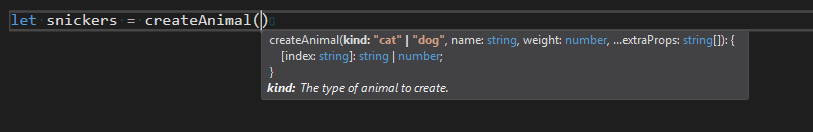
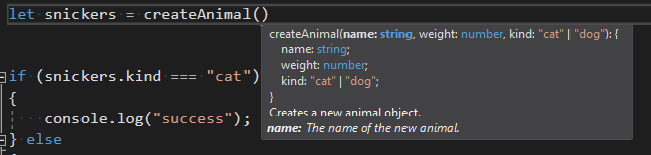
Respond to comments

diff --git a/articles/types/jsdoc.md b/articles/types/jsdoc.md
@@ -1,19 +1,19 @@
 # JsDoc support
 
 Programs written in JavaScript and TypeScript can be annotated with (JsDoc comments)[http://usejsdoc.org/index.html]
-to give type information and quick-info descriptions of identifiers.
+to give type information and quickinfo descriptions of identifiers.
 
-In the following example, the text between the opening `/**` and closing `/*` are considered JsDoc comments.
+In the following example, the text between the opening `/**` and closing `*/` are considered JsDoc comments.
 
 ```js
 /**
- * @param {"cat" | "dog"} kind  The type of animal to create.
- * @param name {string}
- * @param {number} weight The weight, in pounds, of animal.
- * @param {...string} extraProps Any extra properties to tack on the animal.
- * @return {{[index: string]: string | number}} Any extra properties to tack on the animal.
+ * Creates a new animal object.
+ * @param {string} name The name of the new animal.
+ * @param {number} weight
+ * @param {"cat" | "dog"} kind
+ * @return {{name: string, weight: number, kind: "cat" | "dog"}} A brand new animal!
  */
-function createAnimal(kind, name, weight, ...extraProps)
+function createAnimal(name, weight, kind)
 {
     // ...
 }
@@ -21,15 +21,17 @@ function createAnimal(kind, name, weight, ...extraProps)
 
 As you can see, we can prefix sections in JsDoc with terms such as `@param` and `@return` to describe the behavior of the `createAnimal` function.
 In JsDoc, terms beginning with `@` have special meanings, and are called *tags*. The text between curly braces are descriptions of *types*,
-which can be used by the developer to check that they are using a variable correctly -- they can go either before or after the construct's *name*.
+which can be used by the developer to check that they are using a variable correctly &mdash;  they should precede the *name* of the construct being described, if applicable.
 In the example above, knowing that `weight` is a number can inform the developer to avoid calling `weight.length`.
-Moreover, if the result of `createAnimal` is assigned to a variable, the return type of createAnimal propogates to the assigned value.
+Moreover, if the result of `createAnimal` is assigned to a variable, the return type of createAnimal propagates to the assigned value.
 
-Finally, the text after the parameter names are *descriptions*, which show up as part of *quickinfo* anytime you hover over a construct that is documented
+The type annotations supported include both jsdoc and TypeScript syntax. For example, `kind` is described as a union of string-literals, and the return type is an object containing each of the parameters as properties. We give details in (section link?) below.
+
+Finally, the text spans before the first tag and after parameter names are *descriptions*, which shows up as part of quickinfo anytime you hover over a construct that is documented
 
 <img src="../../images/jsdoc-quickinfo.png" width="1000px"/>
 
-and while filling in the paramters in a function call.
+and while filling in the paramaters in a function call.
 
 <img src="../../images/jsdoc-param.png" width="1000px"/>
 
@@ -42,7 +44,7 @@ Visual Studio offers a rich editing experience inside JsDoc comments. The editor
 Any tag may be used for documentation, but Visual Studio treats some tags specially to improve the editor's ability to catch errors and help with refactoring.
 The following tags are handled specially. Each tag is followed by a description and example.
 
-* `@param` -- describes a parameter to a callable construct (eg: a function). Type annotations and descriptions are optional.
+* `@param` &mdash; describes a parameter to a function. Type annotations and descriptions are optional.
 
 ```ts
 /**
@@ -72,7 +74,7 @@ function repeatString(string, times) {
 }
 ```
 
-* `@return` -- describes the return value of a callable construct (eg: a function). Type annotations and descriptions are optional.
+* `@return` &mdash; describes the return value of a function. Type annotations and descriptions are optional.
 
 ```ts
 /**
@@ -87,7 +89,7 @@ function endsWith(haystack, needle) {
 }
 ```
 
-* `@class` -- tells Visual Studio to treat the next construct as a constructor. (Only available in JavaScript files)
+* `@class` &mdash; tells Visual Studio to treat the next function as a constructor. (Only available in JavaScript files)
 
 ```ts
 var Cell = /** @class */ (function () {
@@ -97,7 +99,14 @@ var Cell = /** @class */ (function () {
 }());
 ```
 
-* `@augments` and `@extends` -- in JsDoc for class-like declarations, specifies which class the upcoming construct extends. Note that `@augments` and `@extends` are synonyms.
+* `@augments` and `@extends` &mdash; if the next construct is a class declaration, specifies which class the upcoming declaration extends. Note that `@augments` and `@extends` are synonyms.
+Like the `@class` tag above, these tags are useful with pre-ES6 javacsript, as in the following example:
+
+```ts
+
+```
+
+The following advanced example shows how to use `@augments` to instantiate a type parameter.
 
 ```ts
 // @Filename: declarations.d.ts
@@ -117,7 +126,7 @@ var Cell = /** @class */ (function () {
  }
 ```
 
-* `@template` -- used to specify type parameters for the following construct (c.f. polymorphism in JavaScript)
+* `@template` &mdash; used to specify type parameters for the following function (c.f. generic programming)
 
 ```ts
 /**
@@ -130,14 +139,14 @@ function f(a) {
 let n = f(1)();
 ```
 
-* `@type` -- declares the type of the next construct:
+* `@type` &mdash; declares the type of the next construct:
 
 ```ts
 /** @type {{key: "value"}} */
 var x = JSON.parse(JSON.stringify({key: "value"}));
 ```
 
-* `@typedef` -- Typedef tags can be used to declare types referenced in other JsDoc comments.
+* `@typedef` &mdash; Typedef tags can be used to declare types referenced in other JsDoc comments.
 If a type is specified inline (in the same style as `@param`), that describes the shape of the `@typedef`'d name.
 Alternatively, A JsDoc beginning with a `@typedef` tag and name can be followed by `@property` and `@member` tags to describe the shape of the named type.
 
@@ -154,26 +163,28 @@ Alternatively, A JsDoc beginning with a `@typedef` tag and name can be followed 
 /** @type {Foo1} */
 const x = { foo: 0 };
 ```
-* `@property` and `@memeber` -- used to describe properties as part of a `@typedef` type declaration. See above for an example.
+* `@property` and `@member` &mdash; used to describe properties as part of a `@typedef` type declaration. See above for an example.
 
 ## Type Syntax
 
-TODO.
+Visual Studio supports both [JsDoc](http://usejsdoc.org/tags-type.html#overview) and [TypeScript](https://www.typescriptlang.org/docs/handbook/basic-types.html) syntax for type annotations. Since TypeScript [has a more expressive type system](https://www.typescriptlang.org/docs/handbook/advanced-types.html), we recommend using the latter.
+
+### Generic Programming
 
 ## JsDoc Scaffolding Support
 
 If you would like to add JsDoc comments to an existing javascript construct, typing `/**` in front of a construct in Visual Studio will trigger scaffolding generation, which will stub out
 JsDoc for the next construct:
 
-Scaffolding-gneration is supported for the following constructs:
+Scaffolding-generation is supported for the following constructs:
 
 * function declarations
 * method declarations
 * constructor declarations
 * method signatures
 * variable statements
-* most property assignments -- module import and export statements are excluded
+* most property assignments &mdash; module import and export statements are excluded
 
 ## Bugs
 
-Known issues and feature suggestiong fo JSDoc-related issues are tracked [here](https://github.com/Microsoft/TypeScript/labels/Domain%3A%20JSDoc). If you run into an issue with JsDoc, please first search for and upvote an existing issue. If none exists, please file a new issue.
+Known issues and feature suggestions for JSDoc-related issues are tracked [here](https://github.com/Microsoft/TypeScript/labels/Domain%3A%20JSDoc). If you run into an issue with JsDoc, please first search for and upvote an existing issue. If none exists, please file a new issue.
